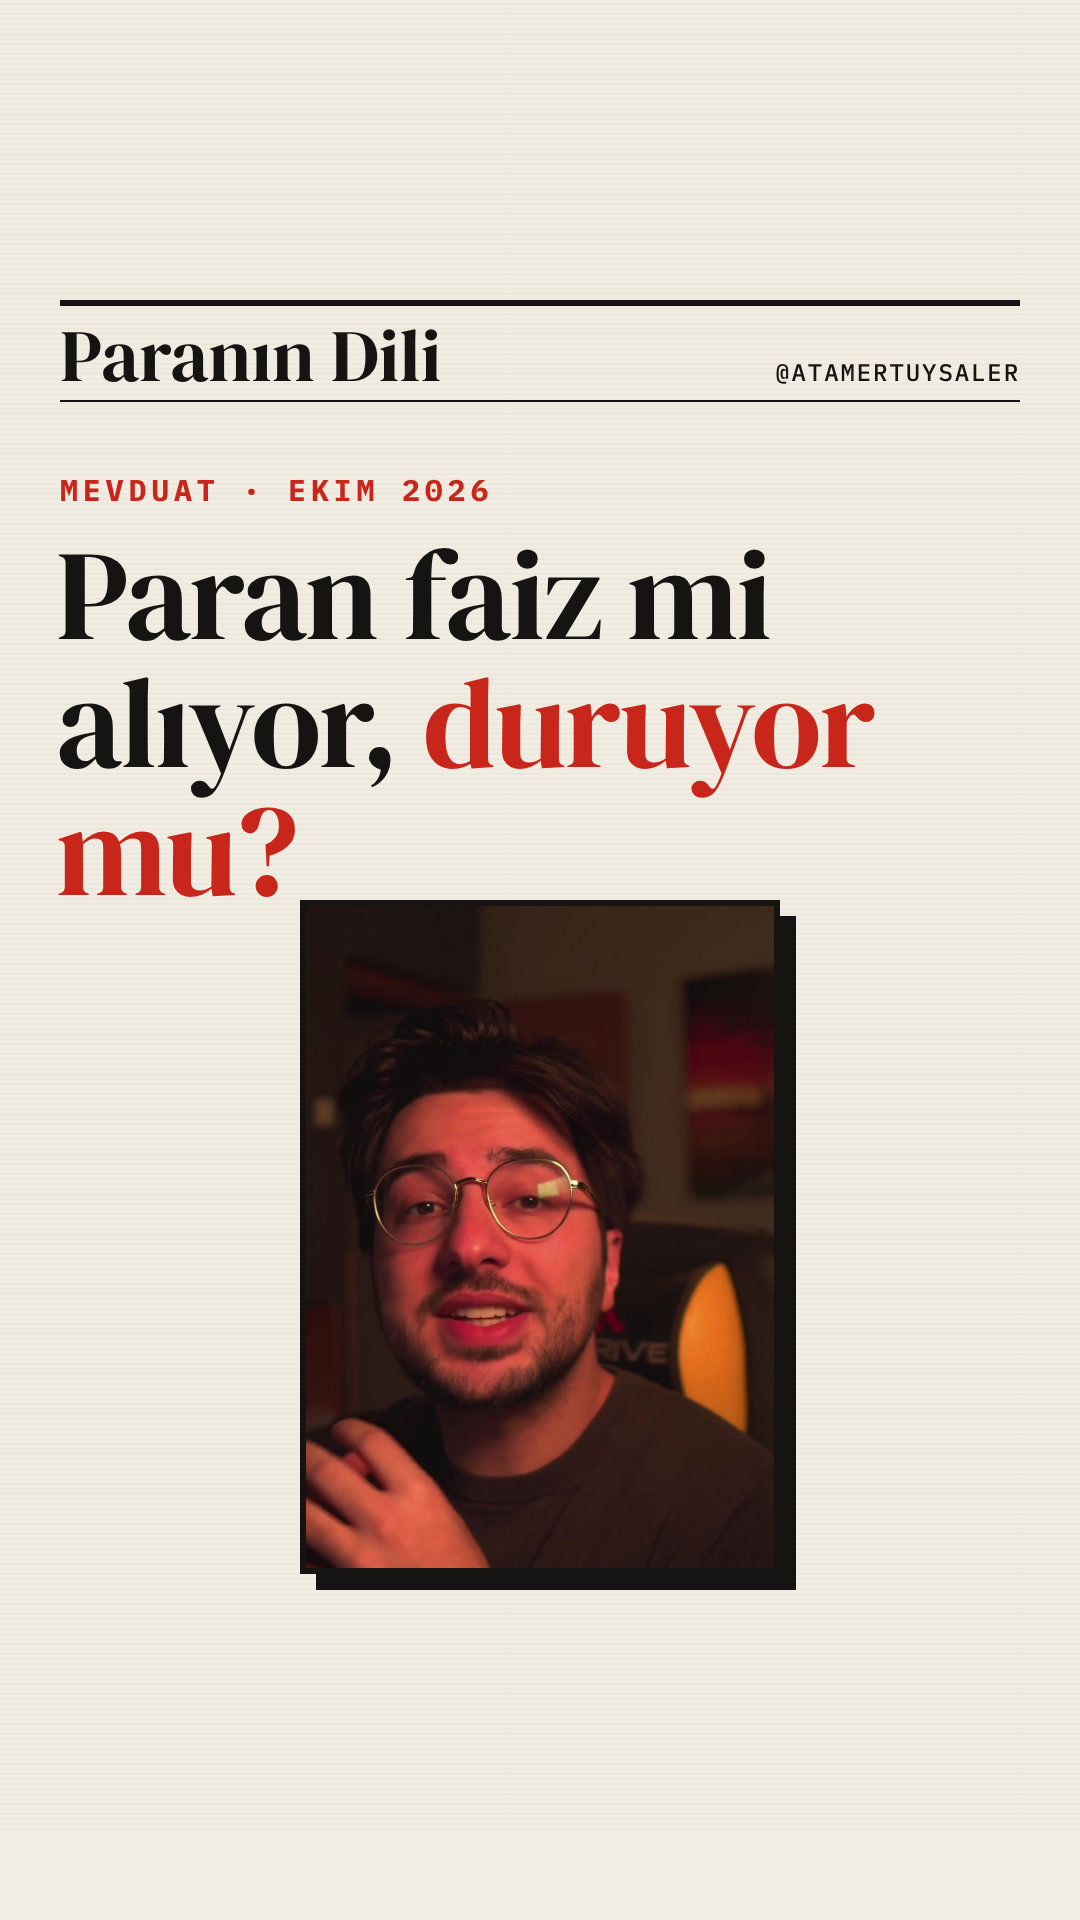
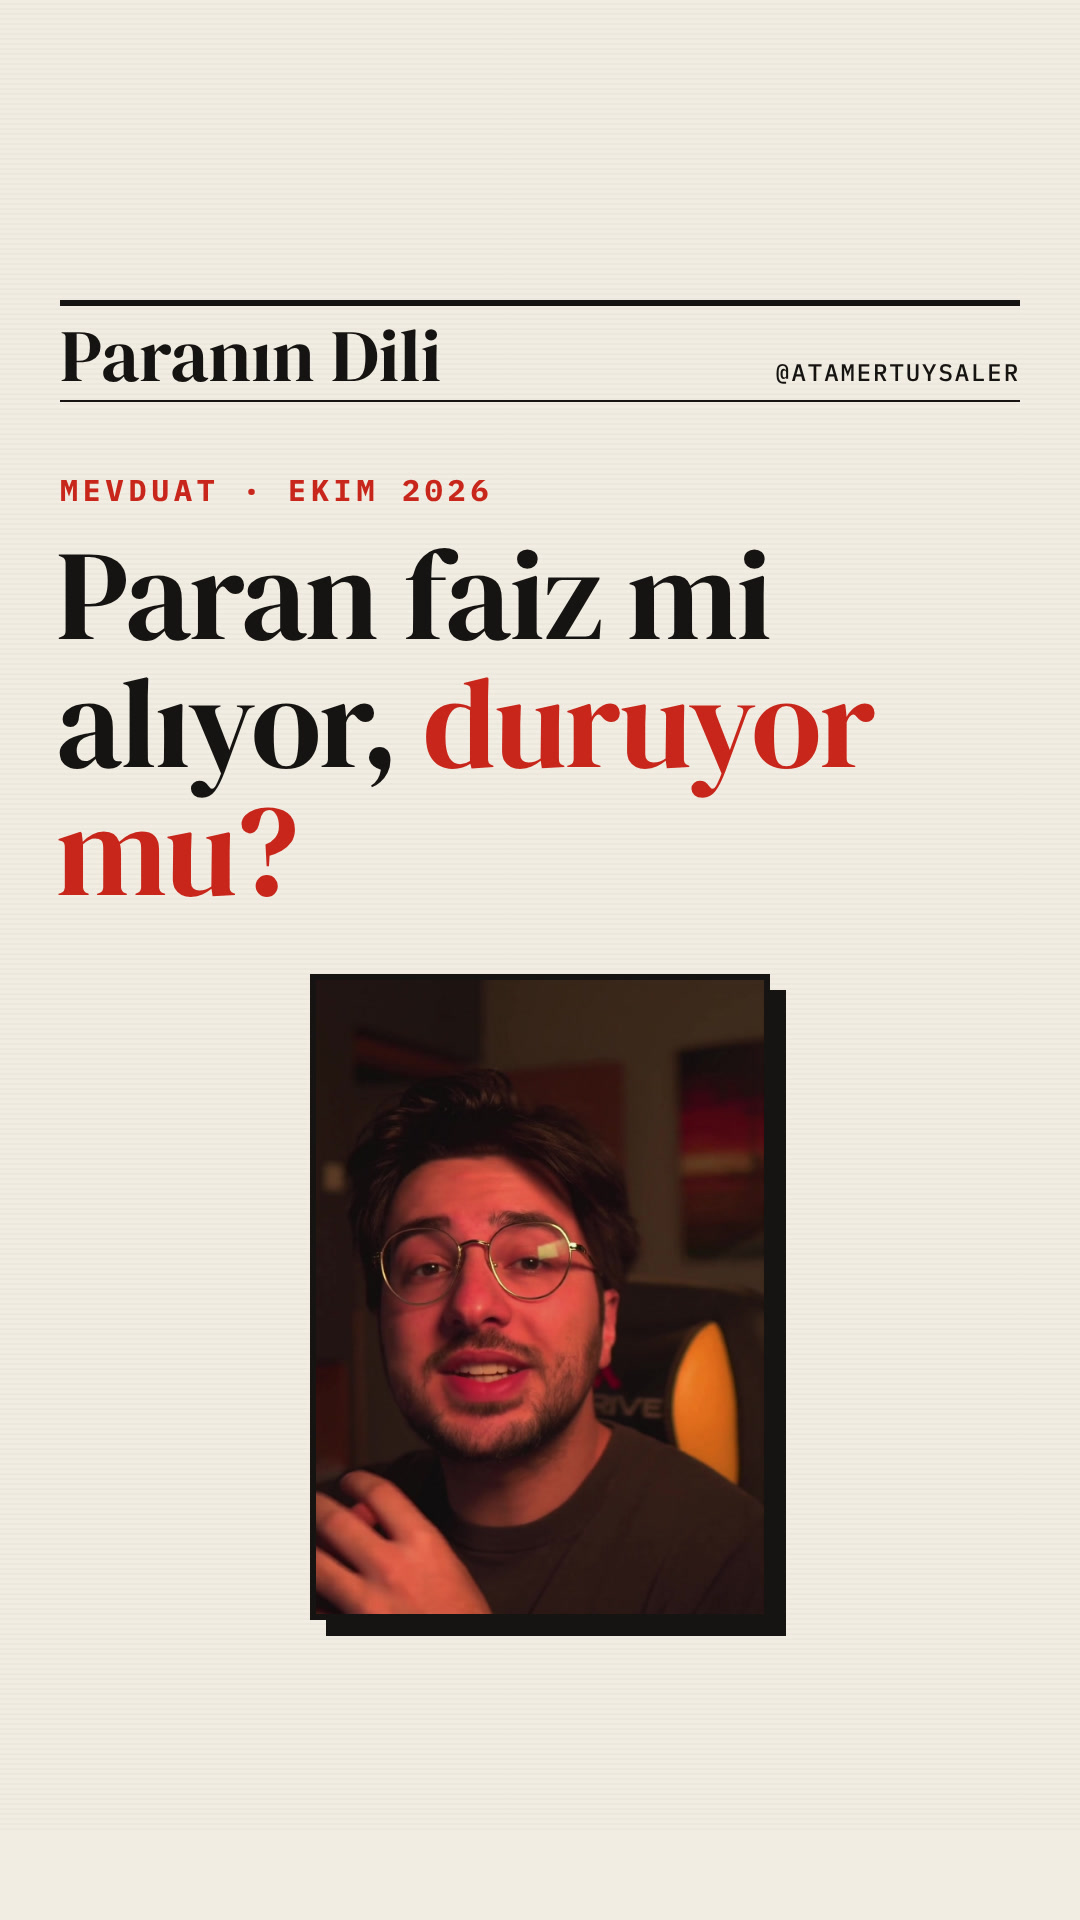
Zamanlanmış 10 video için seri kapakları; kapak yerleşimi font yüklemesinden sonra
Claude-Session: https://claude.ai/code/session_01653SBEUtYBTraJFkbppWCe

Changed region(s): [[0.275, 0.4688, 0.7639, 0.875]]

diff --git a/engine/cover.py b/engine/cover.py
@@ -38,8 +38,9 @@ body{position:relative;font-family:'Inter Tight';color:#161412}
 <script>
 // place the photo under the real title height; keep it inside the grid-safe zone (bottom <= 1620)
 const t=document.getElementById('t'), p=document.getElementById('p');
-const top=t.offsetTop+t.offsetHeight+60, h=Math.min(674, 1620-top), w=Math.round(h*480/674);
-p.style.top=top+'px'; p.style.height=h+'px'; p.style.width=w+'px'; p.style.left=Math.round((1080-w)/2)+'px';
+function place(){const top=t.offsetTop+t.offsetHeight+60, h=Math.min(674, 1620-top), w=Math.round(h*480/674);
+ p.style.top=top+'px'; p.style.height=h+'px'; p.style.width=w+'px'; p.style.left=Math.round((1080-w)/2)+'px';}
+place(); document.fonts.ready.then(place);
 </script>
 </body></html>'''
 
